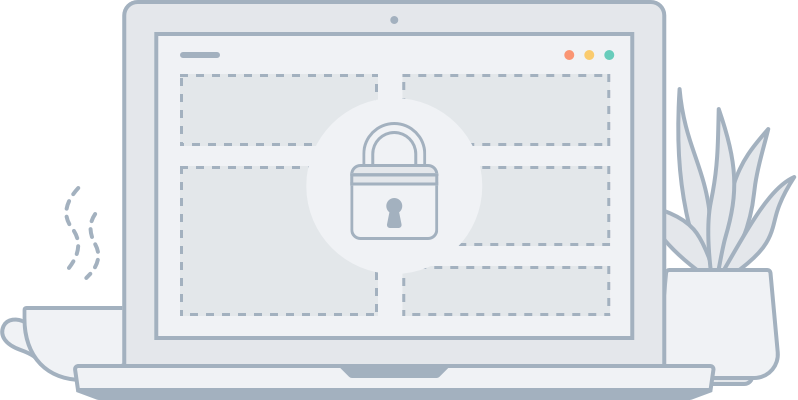
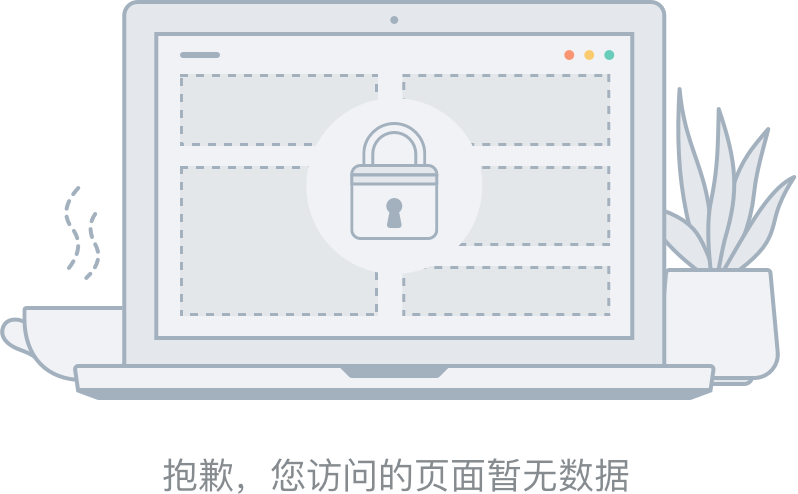
feat: 调整菜单

diff --git a/src/routers/workspace/components/todoPaneTable.tsx b/src/routers/workspace/components/todoPaneTable.tsx
@@ -9,9 +9,9 @@ import { ColumnProps } from 'antd/es/table';
 import { formatNum, comma, checkPermission } from '@/helper/commonUtils';
 
 export const TodoPaneTable = (props: todoPaneTableProps) => {
-    const { activeCategory, projs } = props;
+    const { activeCategory, projs, type } = props;
     const [isUpdating, setIsUpdating] = useState(false); // 是否正在加载待办列表数据
-    const [tableColumns, setTableColumns] = useState([]);
+    const [tableColumns, setTableColumns] = useState([]); // antd Table 的 column
     const [dataList, setDataList] = useState([]); // 表格数据
     const [totalNums, setTotalNums] = useState(0); // 表格数据总条数
     const [searchParams, setsearchParams] = useState<searchParamsType>({
@@ -19,6 +19,7 @@ export const TodoPaneTable = (props: todoPaneTableProps) => {
         page: 1,
         page_size: 20,
         code: activeCategory.id || '',
+        type
     }); // 列表搜索参数
 
     useEffect(() => {
@@ -42,35 +43,6 @@ export const TodoPaneTable = (props: todoPaneTableProps) => {
         const { data, result } = await getTodoListByCategory(searchParams);
         if (result && data) {
             let { column = [], list = [], total = 0 } = data;
-            // list = [
-            //     {
-            //         id: '243434',
-            //         code: 'AR20200429105730526',
-            //         contract_code: 'test',
-            //         name: '342423432',
-            //         age: 234234,
-            //         proj_id: '39f3ea9d-0836-98c5-519e-f302d67ad9af',
-            //         proj_name: '自动测试'
-            //     },
-            // ];
-            // column = [
-            //     {
-            //         index: 'contract_code',
-            //         name: '合同编号',
-            //         type: 'text',
-            //     },
-            //     {
-            //         index: 'name',
-            //         name: '名字',
-            //         type: 'text',
-            //     },
-            //     {
-            //         index: 'age',
-            //         name: '年龄',
-            //         type: 'amount',
-            //     },
-            // ];
-            // total = 20;
             setDataList(list);
             setTotalNums(total);
             const tableColumns = (column || []).map((column: any) => {

diff --git a/src/routers/layout/components/FedMenu/menuRoutes.ts b/src/routers/layout/components/FedMenu/menuRoutes.ts
@@ -7,12 +7,14 @@ export const maps = [
     /**
      * key，菜单地址（不需把bastPath，以及它的查询参数写上，在PageMenu中会处理），value，正则表达式，用来匹配页面路由地址
      */
-    { reg: '/middleground/report.*', key: 'Index', code: 'Report', name: '统计报表' },
+    { reg: '/middleground/workspace.*', key: 'Index', code: 'Workbench', name: '工作台' },
+    { reg: '/middleground/report.*', key: 'Statistical', code: 'Report', name: '统计报表' },
     { reg: '/middleground/basicdata/customer.*', key: 'Basic', code: 'BasicData', name: '基础数据' },
     { reg: '/middleground/metermg.*', key: 'PropertyContract', code: 'MeterMg', name: '水电单价管理' },
     { reg: '/middleground/meter.*', key: 'PropertyContract', code: 'Meter', name: '抄表管理' },
     { reg: '/middleground/basicfee.*', key: 'Finance', code: 'Fee', name: '基本费项' },
     { reg: '/middleground/derate/list', key: 'Finance', code: 'Derate', name: '减免管理' },
+    
 ];
 
 export function getKey(pathName: any) {

diff --git a/src/routers/workspace/components/todoPane.tsx b/src/routers/workspace/components/todoPane.tsx
@@ -56,6 +56,7 @@ export const TodoPane = (props: TodoProps) => {
                 getCategoryStat({
                     code: codes,
                     proj_id: projs.join(','),
+                    type
                 })
                     .then(res => {
                         if (res.result) {
@@ -151,7 +152,7 @@ export const TodoPane = (props: TodoProps) => {
                 })}
             </div>
             <div className="todo-table-container">
-                {activeCategory ? <TodoPaneTable activeCategory={activeCategory} projs={projs} /> : null}
+                {activeCategory ? <TodoPaneTable activeCategory={activeCategory} projs={projs} type={type} /> : null}
             </div>
         </div>
     );

diff --git a/src/routers/workspace/index.less b/src/routers/workspace/index.less
@@ -30,20 +30,13 @@
             border: 1px solid #EBEFF2;
             .no-data-default {
                 position: absolute;
-                width: 360px;
+                width: 400px;
                 left: 50%;
                 top: 50%;
                 transform: translate(-50%, -50%);
                 .top {
                     width: 100%;
                 };
-                .bottom {
-                    position: relative;
-                    width: 234px;
-                    margin-top: 24px;
-                    left: 50%;
-                    transform: translateX(-50%);
-                }
             }
         }
     }

diff --git a/src/routers/layout/components/FedMenu/index.tsx b/src/routers/layout/components/FedMenu/index.tsx
@@ -50,7 +50,7 @@ export default class Menus extends React.Component<Props, State> {
                         key={menuItem.func_code}
                         title={
                             <span>
-                                <Badge dot={menuItem.func_code === 'Index' && workflow.total_todo}>
+                                <Badge dot={menuItem.func_code === 'Approval' && workflow.total_todo}>
                                     <FedIcon type={menuItem.icon} />
                                 </Badge>
                                 <span>{menuItem.func_name}</span>

diff --git a/src/app.tsx b/src/app.tsx
@@ -172,7 +172,7 @@ class App extends React.PureComponent<Props> {
                         {routes.map(item => {
                             return <Route path={item.path} component={item.component} key={item.path} />;
                         })}
-                        <Redirect exact from="/*" to="/report?_smp=Rental.Report" />
+                        <Redirect exact from="/*" to="/workspace/index?_smp=Rental.Workbench" />
                     </Switch>
                     {/* </Suspense> */}
                 </Layout>

diff --git a/src/config.ts b/src/config.ts
@@ -8,7 +8,7 @@ interface Config {
 }
 
 const config: Config = {
-    iconSymbolUrl: '//at.alicdn.com/t/font_1786298_tr2bbi15k2.js',
+    iconSymbolUrl: '//at.alicdn.com/t/font_196154_sp59xs4i1gq.js',
     DEV: process.env.NODE_ENV !== 'production', // 开发环境
     TEST: window.location.hostname.indexOf('test') !== -1, //测试环境
     apiDomain: '/api', //代理请求前缀

diff --git a/src/routers/workspace/list.d.ts b/src/routers/workspace/list.d.ts
@@ -37,10 +37,12 @@ export interface searchParamsType {
     page: number;
     page_size: number;
     code: string;
+    type: string;
 }
 
 export interface todoPaneTableProps {
     activeCategory: category;
     projs: string[];
     code?: string;
+    type: string;
 }

diff --git a/src/types/workspace.ts b/src/types/workspace.ts
@@ -6,4 +6,5 @@ export interface getCategoryParamsType {
 export interface getCategoryStatParamsType {
     proj_id: string;
     code: string[];
+    type: string;
 }
